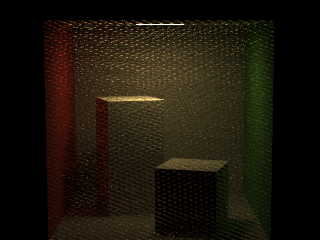
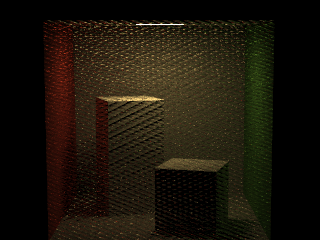
Integrate RandomDigits and Owen scrambling into Halton random generator

diff --git a/WorkingProject/Random/Halton.h b/WorkingProject/Random/Halton.h
@@ -2,18 +2,44 @@
 
 #include "Scrambling.h"
 
-inline float HaltonRand(uint32_t value, const uint32_t base) {
+inline float HaltonRand(uint32_t index, const uint32_t base,
+                        uint32_t scramble, int scrambling_type) {
     const float invBase = (float) 1 / (float) base;
-    uint32_t reversedDigits = 0;
+    uint32_t value = 0;
     float invBaseN = 1;
 
-    while (value) {
-        uint32_t next = value / base;
-        uint32_t digit = value - next * base;
-        reversedDigits = reversedDigits * base + digit;
+    while (index) {
+        uint32_t next = index / base;
+        uint32_t digit = index - next * base;
+        value = value * base + digit;
         invBaseN *= invBase;
-        value = next;
+        index = next;
     }
 
-    return std::min(reversedDigits * invBaseN, 1 - 1e-10f);
+    if (scrambling_type == None) {
+        return std::min(value * invBaseN, 1 - 1e-10f);
+    }
+    value = (value << 8) + value;
+    value = (value << 16) + value;
+    switch (scrambling_type) {
+        case 0:
+            value ^= scramble;
+            break;
+        case 1:
+            value = OwenScrambling<1>(value, scramble);
+            break;
+        case 2:
+            value = OwenScrambling<2>(value, scramble);
+            break;
+        case 3:
+            value = OwenScrambling<3>(value, scramble);
+            break;
+        case 4:
+            value = OwenScrambling<4>(value, scramble);
+            break;
+        default:
+            break;
+    }
+
+    return UintToFloat(value);
 }

diff --git a/WorkingProject/Constants.h b/WorkingProject/Constants.h
@@ -1,9 +1,7 @@
 #pragma once
 
-const float EPSILON = 1e-10f;
-
-const int MAX_PATHS = 256; // 32
-const int MAX_BOUNCE = 8; // 4
+const int MAX_PATHS = 256;
+const int MAX_BOUNCE = 8;
 
 const int IMAGE_WIDTH = 320;
 const int IMAGE_HEIGHT = 240;
@@ -18,7 +16,7 @@ const int CHECK_PIXEL_Y = 100;
 enum random_generator {
     Default, LinearCongruential, MersenneTwister, SubtractWithCarry, ShuffleOrder, Halton, Sobol
 };
-const random_generator random_generator_type = Sobol;
+const random_generator random_generator_type = Halton;
 
 enum scrambling : int {
     RandomDigit, Owen, OwenV1, OwenV2, OwenFinal, None
@@ -61,3 +59,5 @@ std::ofstream eLightPointX(file_name_dim_test + "_eLightPointX_3.txt");
 std::ofstream eLightPointY(file_name_dim_test + "_eLightPointY_4.txt");
 std::ofstream eGetRayX(file_name_dim_test + "_eGetRayX_9.txt");
 std::ofstream eGetRayY(file_name_dim_test + "_eGetRayY_10.txt");
+
+const float EPSILON = 1e-10f;

diff --git a/WorkingProject/Random/ourRandom.hpp b/WorkingProject/Random/ourRandom.hpp
@@ -54,7 +54,8 @@ float random(SamplerState &currentState) {
 
     float result = 0;
     if (random_generator_type == Halton) {
-        result = HaltonRand(currentState.seed * MAX_BOUNCE + currentState.sampleIdx, base);
+        result = HaltonRand(currentState.seed * MAX_BOUNCE + currentState.sampleIdx, base,
+                            RandomDigitScrambling[uint32_t(Dim)], scrambling_type);
     } else if (random_generator_type == Sobol) {
         result = SobolRand(currentState.seed * MAX_BOUNCE + currentState.sampleIdx, base,
                            RandomDigitScrambling[uint32_t(Dim)], scrambling_type);

diff --git a/WorkingProject/Random/Sobol.h b/WorkingProject/Random/Sobol.h
@@ -7,11 +7,6 @@ static constexpr int SobolMatrixSize = 52;
 extern const uint32_t SobolMatrices32[NumSobolDimensions *
                                       SobolMatrixSize];
 
-static float UintToFloat(uint32_t value) {
-    return std::min(1 - 1e-10f, value * 0x1p-32f);
-}
-
-
 static float SobolRand(uint32_t index, uint32_t dimension,
                        uint32_t scramble, int scrambling_type) {
 

diff --git a/WorkingProject/Random/Scrambling.h b/WorkingProject/Random/Scrambling.h
@@ -63,6 +63,10 @@ namespace {
     }
 }
 
+inline float UintToFloat(uint32_t value) {
+    return std::min(1 - 1e-10f, value * 0x1p-32f);
+}
+
 template<int scrambling_type>
 inline uint32_t OwenScrambling(uint32_t value, uint32_t scramble) {
 

diff --git a/MakeScatterForPixel/main.py b/MakeScatterForPixel/main.py
@@ -1,7 +1,7 @@
 import matplotlib.pyplot as plt
 
 # parameters
-name = "Sobol"
+name = "Halton"
 max_path = 256
 max_bounce = 8
 scrambling_type = "OwenFinal"
